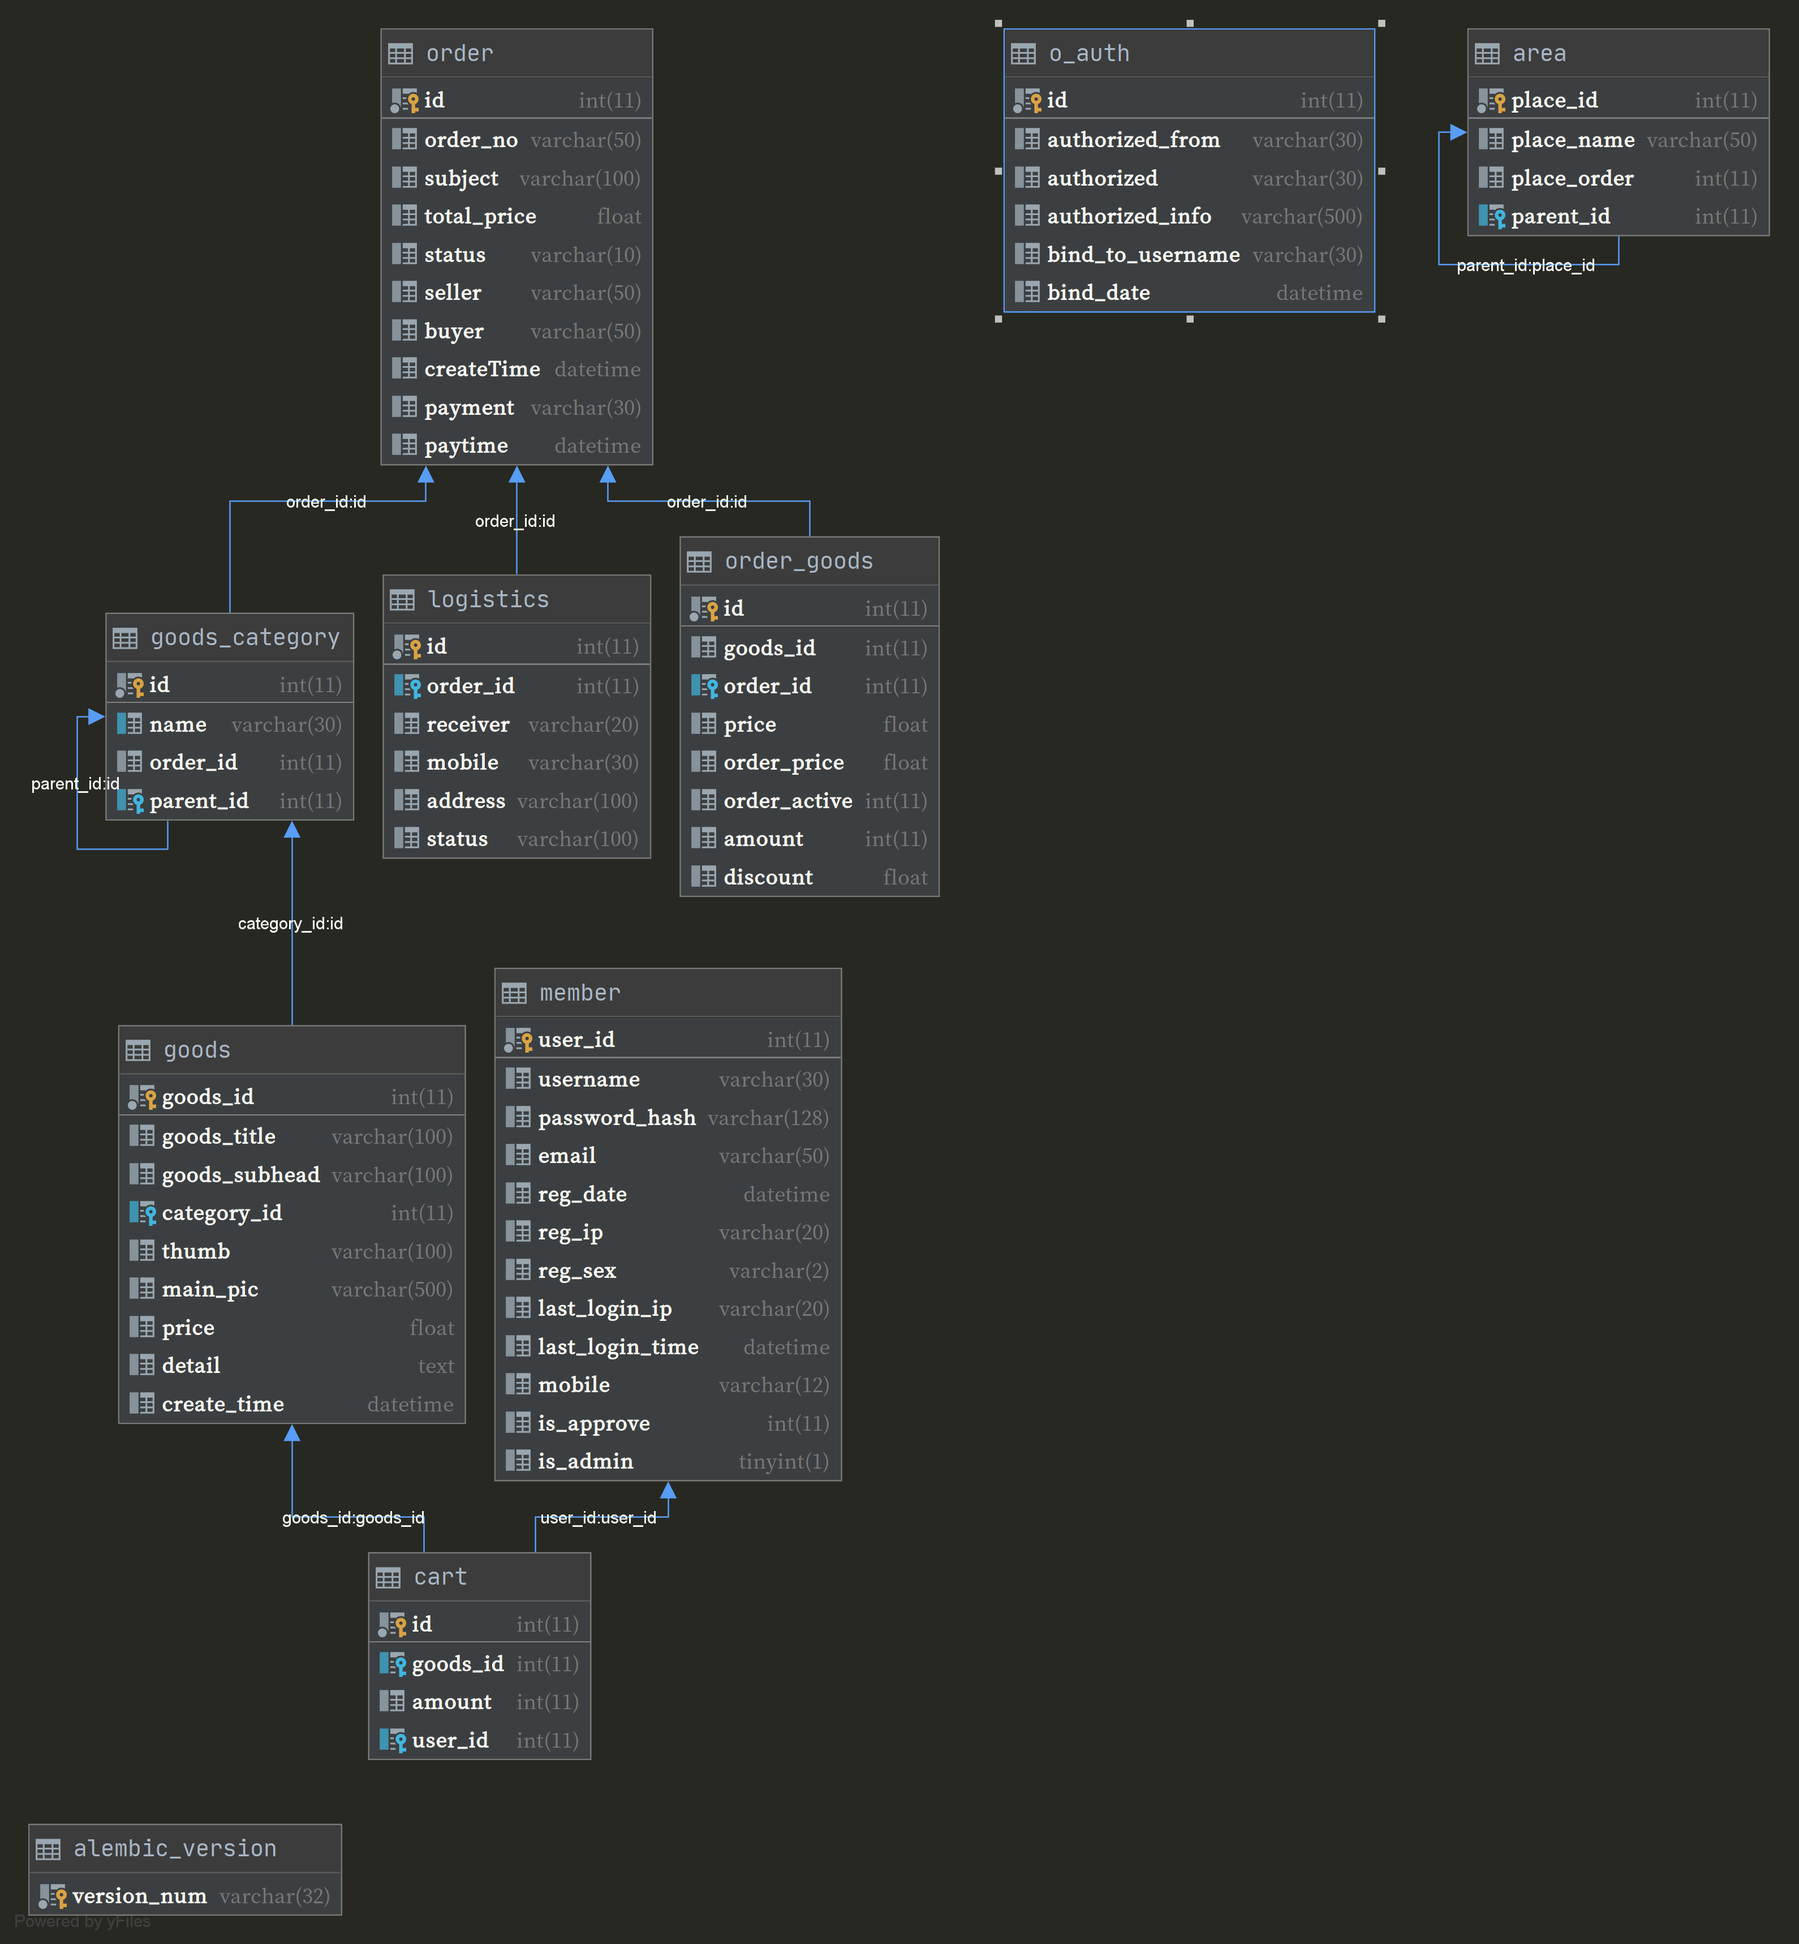
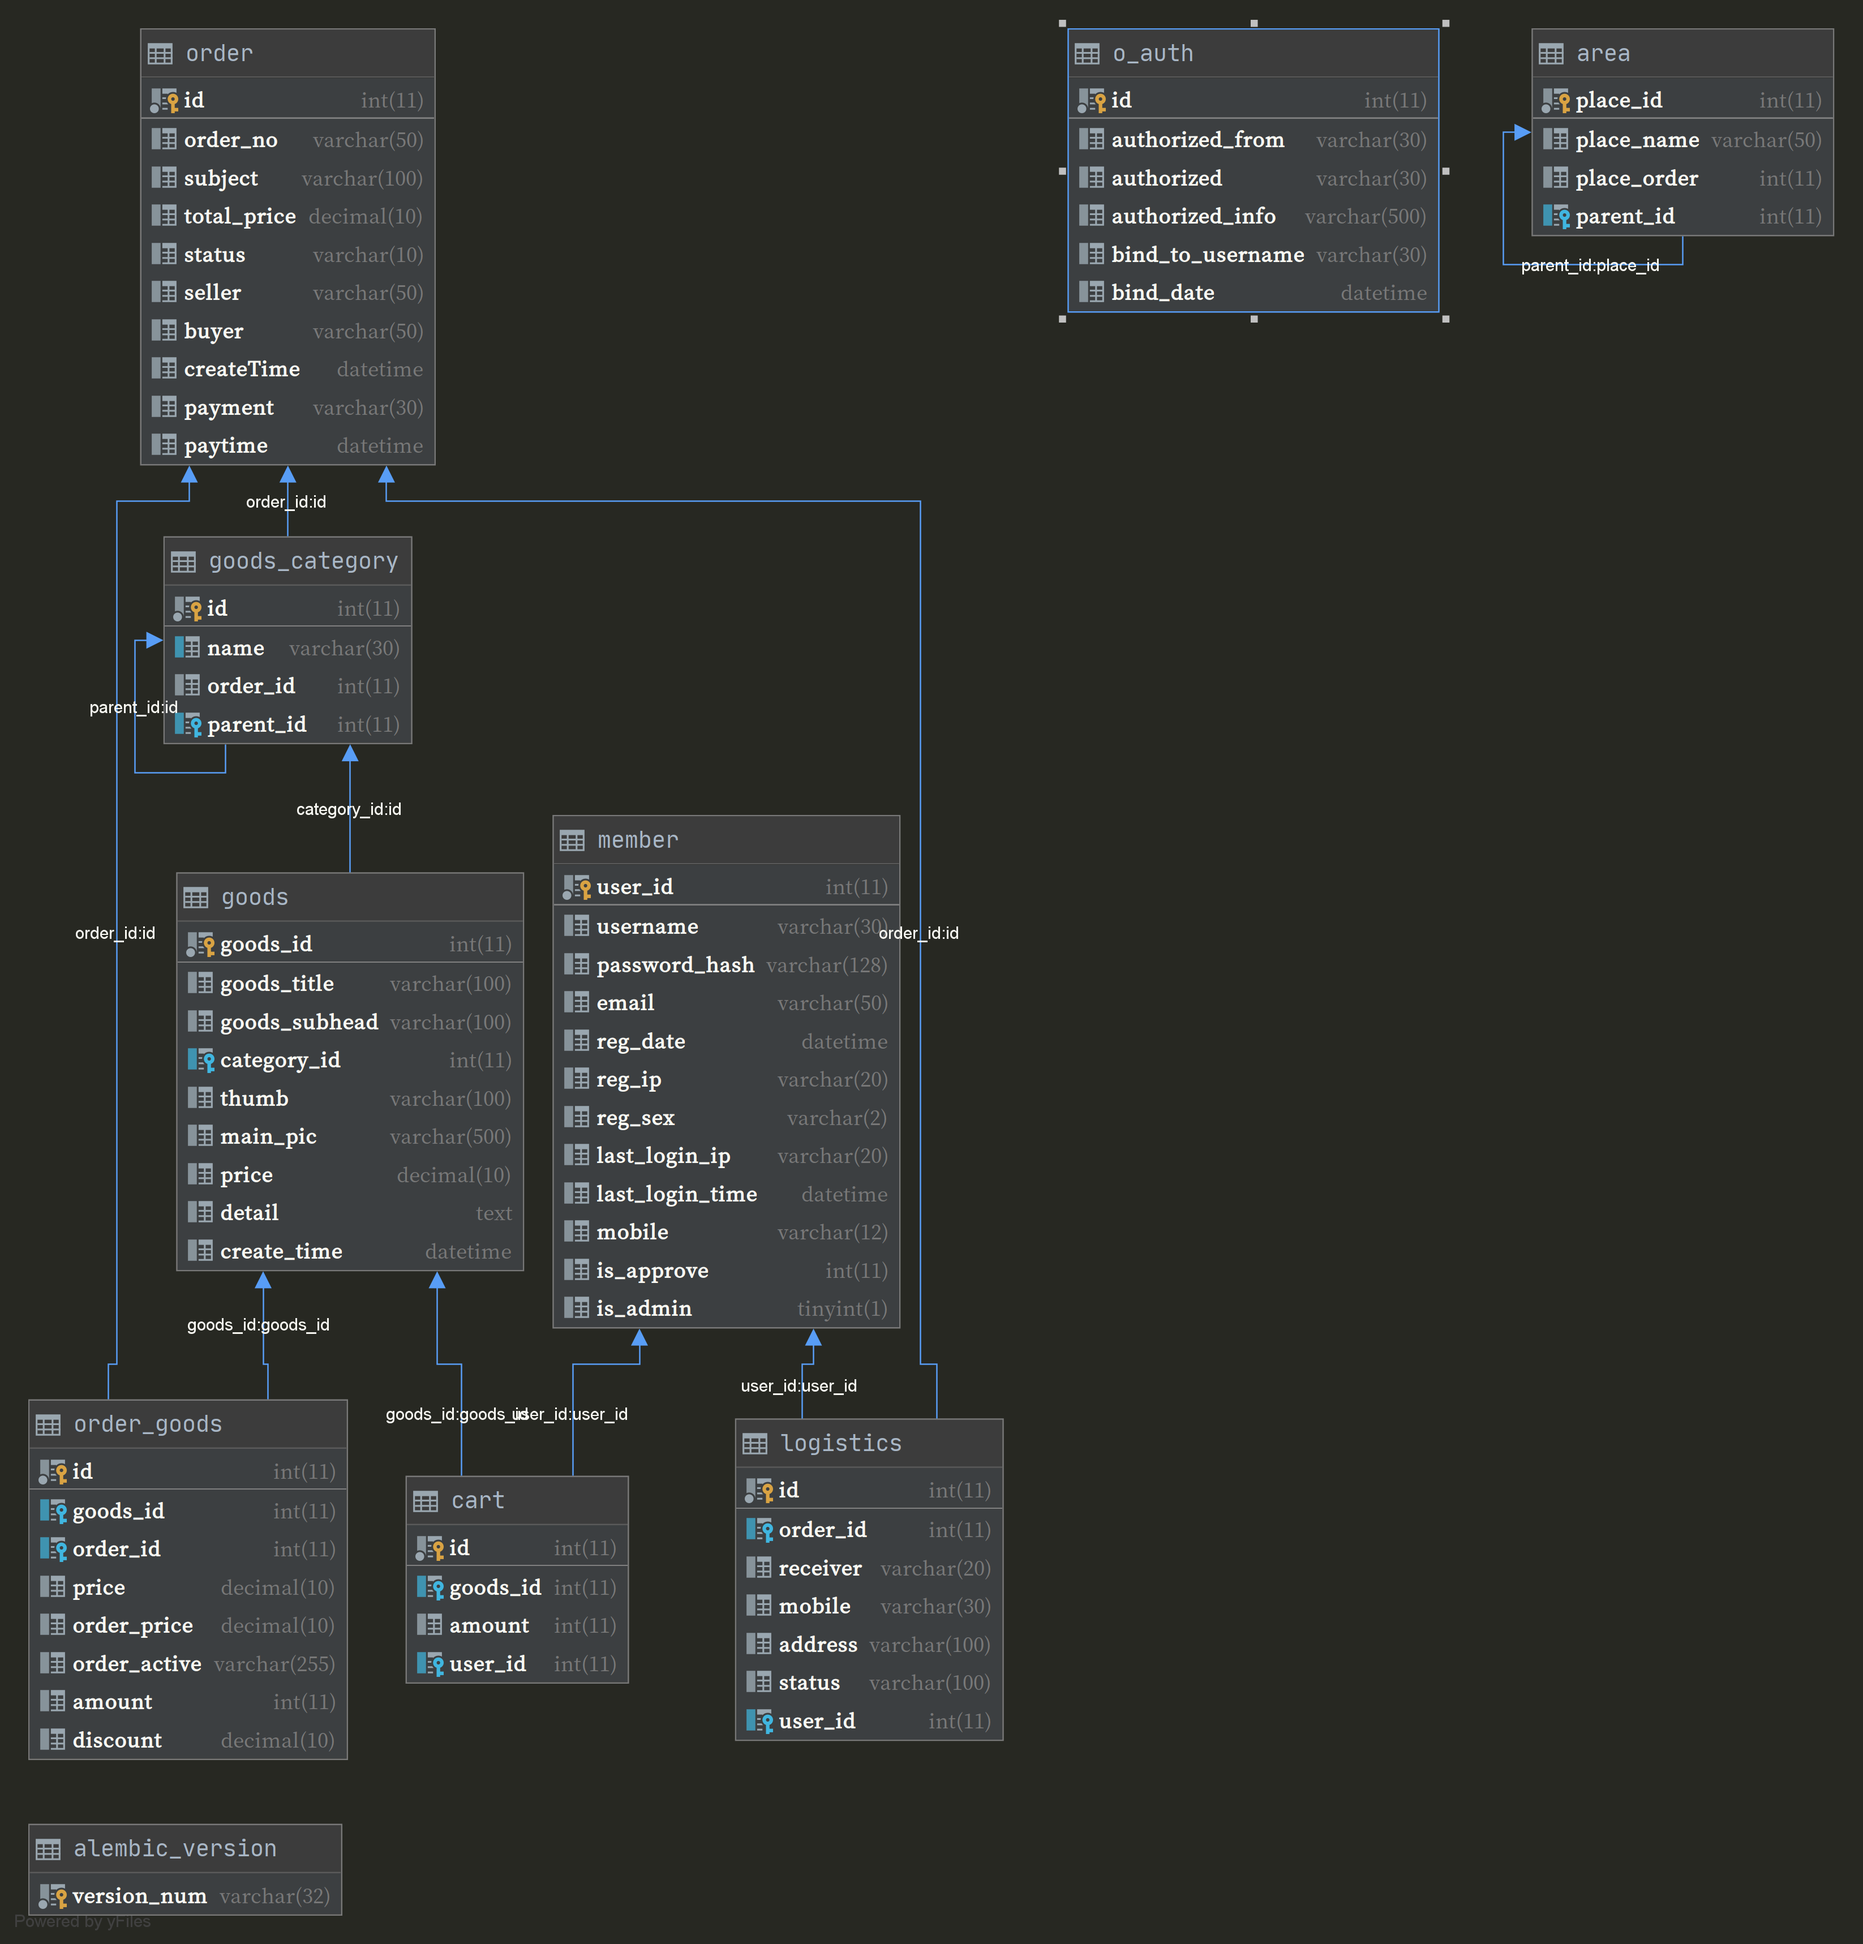
修改数据库外键

diff --git a/xp_mall/models/order.py b/xp_mall/models/order.py
@@ -26,7 +26,7 @@ class Order(db.Model):
 
 class OrderGoods(db.Model):
     id = db.Column(db.Integer, primary_key=True)
-    goods_id = db.Column(db.Integer)
+    goods_id = db.Column(db.Integer, db.ForeignKey('goods.goods_id'))
     order_id = db.Column(db.Integer, db.ForeignKey('order.id'))
     price = db.Column(db.DECIMAL)
     order_price = db.Column(db.DECIMAL)
@@ -35,6 +35,7 @@ class OrderGoods(db.Model):
     discount = db.Column(db.DECIMAL)
 
     order = db.relationship('Order', back_populates='goods')
+    goods = db.relationship('Goods')
 
 
 class Cart(db.Model):
@@ -54,5 +55,7 @@ class Logistics(db.Model):
     mobile = db.Column(db.String(30))
     address = db.Column(db.String(100))
     status = db.Column(db.String(100))
+    user_id = db.Column(db.Integer, db.ForeignKey('member.user_id'))
 
     order = db.relationship('Order')
+    user = db.relationship('Member')

diff --git a/app.py b/app.py
@@ -20,7 +20,7 @@ from xp_mall.models.category import GoodsCategory
 from xp_mall.models.member import Guest
 from xp_mall.models import area
 from xp_mall.models.goods import Goods
-from xp_mall.models.order import Order, OrderGoods
+from xp_mall.models.order import Order, OrderGoods, Logistics
 from xp_mall.extensions import db, login_manager, csrf, ckeditor, moment, toolbar, migrate
 from xp_mall.extensions import whooshee, dropzone, alipay, wxpay
 from xp_mall.settings import config
